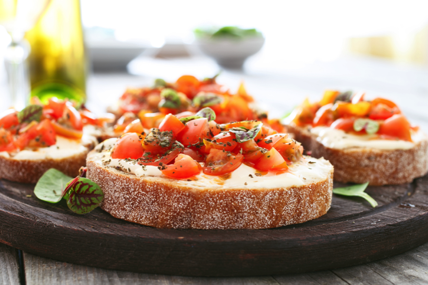
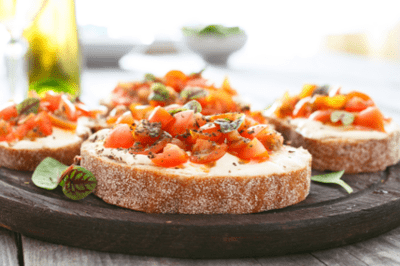
image optimization

diff --git a/src/components/BookingForm.jsx b/src/components/BookingForm.jsx
@@ -1,6 +1,7 @@
 import React, { useState } from 'react';
 import { Formik, Form } from 'formik';
 import Modal from 'react-modal';
+import { useNavigate } from "react-router-dom";
 
 import ConfirmedBooking from './ConfirmedBooking';
 import FormTopSection from './FormTopSection';
@@ -17,6 +18,7 @@ const BookingForm = ({
 }) => {
   const [modalIsOpen, setIsOpen] = useState(false);
   const [bookingData, setBookingData] = useState(null);
+  const navigate = useNavigate();
 
   const handleSubmit = async (values, { setSubmitting, resetForm }) => {
     try {
@@ -39,6 +41,7 @@ const BookingForm = ({
   const closeModal = () => {
     setIsOpen(false);
     setBookingData(null);
+    navigate("/");
   };
 
   Modal.setAppElement('#root');
